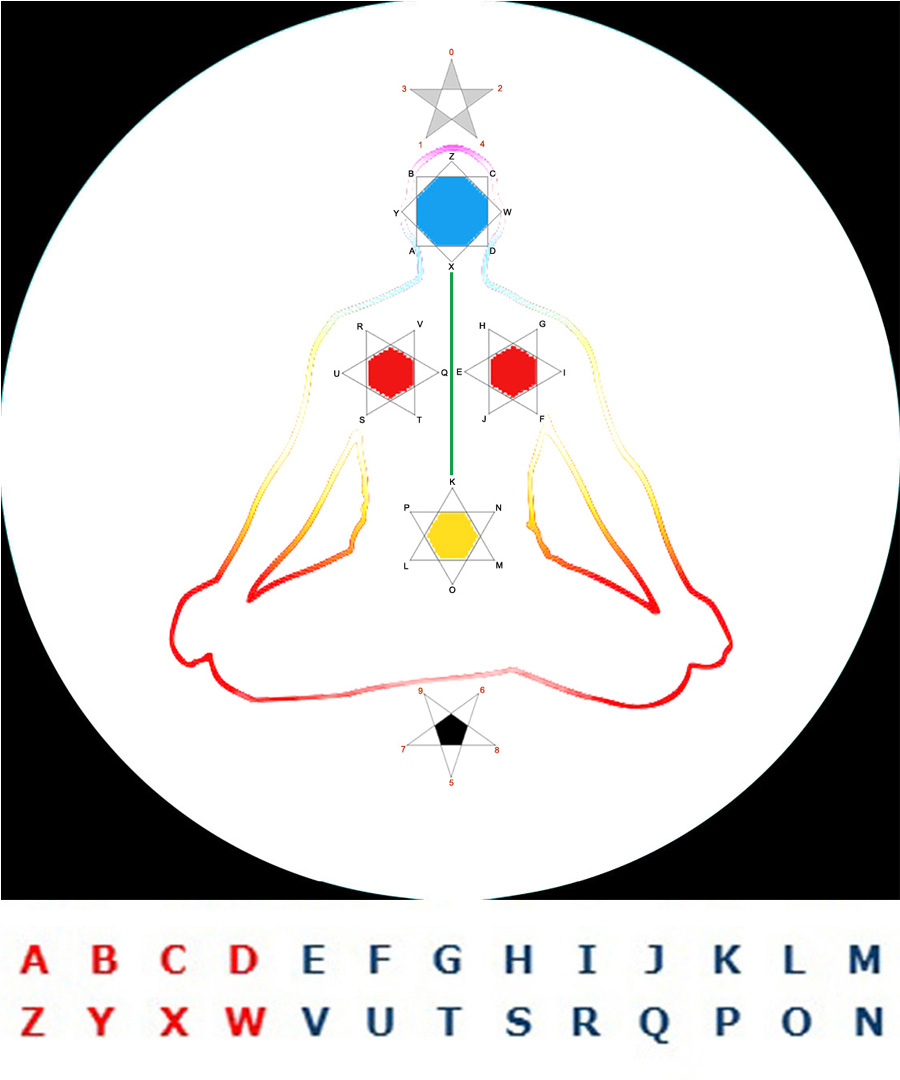
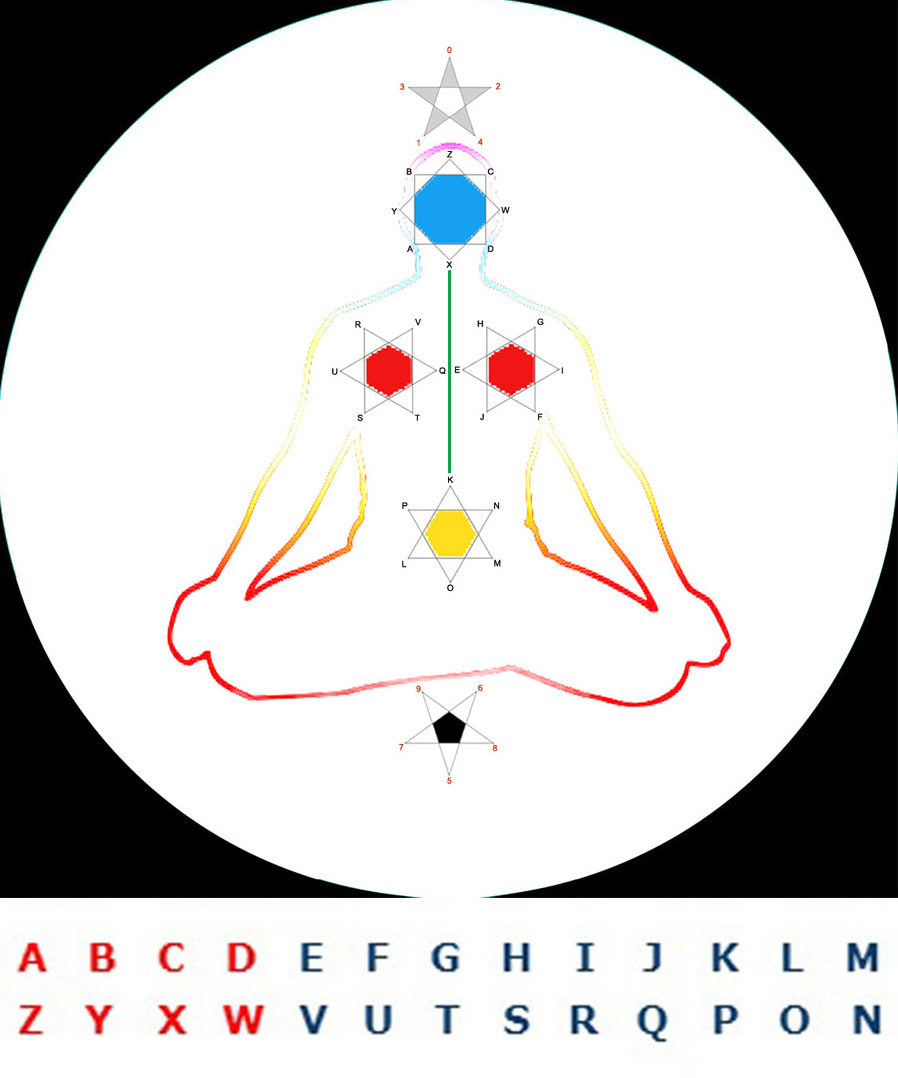
update

diff --git a/lib/data/museum/communication.js b/lib/data/museum/communication.js
@@ -20,10 +20,10 @@ export const communication = {
    },
     
    text: {
-    en: "The integration of the inner-soul and the elements",
-    bn: "অন্তরাত্মা ও  উপাদান সমূহের  একীভূতকরণ",
-    hi: "अंतरात्मा और तत्वों का एकीकरण",
-    sa: "आन्तरिक-आत्मनः तत्त्वानां च एकीकरणम्",
+    en: "The integration of the inner-soul and the nature",
+    bn: "অন্তরাত্মা ও প্রকৃতির একীভূতকরণ",
+    hi: "अंतरात्मा और प्रकृति का एकीकरण",
+    sa: "आन्तरिक-आत्मनः प्रकृतिः च एकीकरणम्",
   },
 },
  
@@ -39,7 +39,8 @@ export const communication = {
     text: {
     en: "The communication between the conscious and the unconscious mind gives birth to an inner language — reflected through numbers and alphabets in the Zero Hour of creation; the alphabetical sequence A—Z unfolds like a circle emerging from a single point, where 26 → 2 + 6 = 8 symbolizes the reflection of '0', the sign of an eternal cycle; just as the solar system extends from 0 to 8, embodying infinity, so do the numbers 0-9 represent the silent origin of human thought; dreams bridge the unconscious with the conscious, linking the inner and outer universes through the hidden pulse of awareness;",
     
-    bn: "সচেতন ও অচেতন মনের মধ্যকার যোগাযোগ একটি অভ্যন্তরীণ ভাষার জন্ম দেয় — যা সৃষ্টির শূন্য মুহূর্তে সংখ্যা ও বর্ণমালার মাধ্যমে প্রতিফলিত হয়; A—Z বর্ণানুক্রমটি একটি একক বিন্দু থেকে উদ্ভূত বৃত্তের মতো উন্মোচিত হয়, যেখানে ২৬ → ২ + ৬ = ৮ সংখ্যাটি '০'-এর প্রতিফলনকে প্রতীকায়িত করে, যা এক চিরন্তন চক্রের চিহ্ন; ঠিক যেমন সৌরজগৎ ০ থেকে ৮ পর্যন্ত বিস্তৃত হয়ে অসীমতাকে ধারণ করে, তেমনি ০-৯ সংখ্যাগুলো মানব চিন্তার নীরব উৎসকে প্রতিনিধিত্ব করে; স্বপ্ন অচেতন ও সচেতন মনের মধ্যে সেতুবন্ধন তৈরি করে, সচেতনতার লুকানো স্পন্দনের মাধ্যমে অভ্যন্তরীণ ও বাহ্যিক জগতকে সংযুক্ত করে;",
+    bn: "সচেতন ও অচেতন মনের মধ্যকার যোগাযোগ একটি অভ্যন্তরীণ ভাষার জন্ম দেয় — যা সৃষ্টির শূন্য মুহূর্তে সংখ্যা ও বর্ণমালার মাধ্যমে প্রতিফলিত হয়; A—Z বর্ণানুক্রমটি একটি একক বিন্দু থেকে উদ্ভূত বৃত্তের মতো উন্মোচিত হয়, যেখানে 26 → 2 + 6 = 8 সংখ্যাটি '0'-এর প্রতিফলনকে প্রতীকায়িত করে, যা এক চিরন্তন চক্রের চিহ্ন; ঠিক যেমন সৌরজগৎ 0 থেকে 8 পর্যন্ত বিস্তৃত হয়ে অসীমতাকে ধারণ করে, তেমনি 0-9 সংখ্যাগুলো মানব চিন্তার নীরব উৎসকে প্রতিনিধিত্ব করে; স্বপ্ন অচেতন ও সচেতন মনের মধ্যে সেতুবন্ধন তৈরি করে, সচেতনতার লুকানো স্পন্দনের মাধ্যমে অভ্যন্তরীণ ও বাহ্যিক জগতকে সংযুক্ত করে;",
+
     hi: "चेतन और अचेतन मन के बीच कम्युनिकेशन एक अंदरूनी भाषा को जन्म देता है — जो सृष्टि के ज़ीरो आवर में नंबरों और अल्फाबेट के ज़रिए दिखता है; अल्फाबेटिकल सीक्वेंस A—Z एक सिंगल पॉइंट से निकलते हुए एक सर्कल की तरह खुलता है, जहाँ 26 → 2 + 6 = 8 '0' के रिफ्लेक्शन को दिखाता है, जो एक हमेशा रहने वाले साइकिल का साइन है; जैसे सोलर सिस्टम 0 से 8 तक फैला है, जो इनफिनिटी को दिखाता है, वैसे ही नंबर 0-9 इंसानी सोच की साइलेंट शुरुआत को दिखाते हैं; सपने अचेतन को चेतन से जोड़ते हैं, अवेयरनेस की छिपी हुई पल्स के ज़रिए अंदरूनी और बाहरी यूनिवर्स को जोड़ते हैं;",
 
     sa: " चेतन-अचेतन-मनसयोः मध्ये संचारः एकां आन्तरिकभाषां जनयति — सृष्टेः शून्यघण्टायां संख्याभिः वर्णमालाभिः च प्रतिबिम्बितम् वर्णमालाक्रमः A—Z एकस्मात् बिन्दुतः निर्गच्छन् वृत्तवत् प्रकटितः भवति, यत्र 26 → 2 + 6 = 8 शाश्वतचक्रस्य चिह्नस्य '0' इत्यस्य प्रतिबिम्बस्य प्रतीकं भवति यथा सौरमण्डलं ० तः ८ पर्यन्तं विस्तृतं भवति, अनन्ततां मूर्तरूपं ददाति, तथैव ०-९ सङ्ख्याः मानवचिन्तनस्य मौनमूलस्य प्रतिनिधित्वं कुर्वन्ति; स्वप्नाः अचेतनं चेतनेन सह सेतुम् अकुर्वन्, जागरूकतायाः गुप्तनाडीद्वारा आन्तरिकबाह्यब्रह्माण्डयोः संयोजनं कुर्वन्ति;",
@@ -74,33 +75,29 @@ export const communication = {
     text: {
     en: "Thus, the sequence A—Z becomes a reflection of Life and Nature, where A—M and N—Z embody the cyclic rhythm of millennia; ABCD = WXYZ forms a symbolic circle — AD (Anno Domini) and BC (Before Christ), the two ends of time's continuum; WZ, meaning Word Zero, represents the figures from zero to nine — the ''Zero Hour'' or the cosmic womb of creation; from this alphabetic consciousness, XY chromosomes emerge, completing the cycle of self-realization — the union of creation, consciousness, and life itself;",
     
-    bn: "এইভাবে, A—Z ক্রমটি জীবন এবং প্রকৃতির প্রতিফলন হয়ে ওঠে, যেখানে A—M এবং N—Z সহস্রাব্দের চক্রাকার ছন্দকে মূর্ত করে; ABCD = WXYZ একটি প্রতীকী বৃত্ত গঠন করে — AD (Anno Domini) এবং BC (Before Christ), যা কালধারার দুটি প্রান্ত; WZ, যার অর্থ ‘শব্দ শূন্য’, শূন্য থেকে নয় পর্যন্ত সংখ্যাগুলোকে প্রতিনিধিত্ব করে — ‘শূন্য প্রহর’ বা সৃষ্টির মহাজাগতিক গর্ভ; এই বর্ণভিত্তিক চেতনা থেকে XY ক্রোমোজোমের উদ্ভব ঘটে, যা আত্ম-উপলব্ধির চক্রকে সম্পূর্ণ করে — সৃষ্টি, চেতনা এবং স্বয়ং জীবনের মিলন;",
+    bn: "এইভাবে, A—Z ক্রমটি জীবন এবং প্রকৃতির প্রতিফলন হয়ে ওঠে, যেখানে A—M এবং N—Z সহস্রাব্দের চক্রাকার ছন্দকে মূর্ত করে; ABCD = WXYZ একটি প্রতীকী বৃত্ত গঠন করে — AD (Anno Domini) এবং BC (Before Christ), যা কালধারার দুটি প্রান্ত; WZ (Zero Hour) যার অর্থ ‘শব্দ শূন্য’, শূন্য থেকে নয় পর্যন্ত সংখ্যাগুলোকে প্রতিনিধিত্ব করে — ‘শূন্য প্রহর’ বা সৃষ্টির মহাজাগতিক গর্ভ; এই বর্ণভিত্তিক চেতনা থেকে XY (Embryo) ক্রোমোজোমের উদ্ভব ঘটে, যা আত্ম-উপলব্ধির চক্রকে সম্পূর্ণ করে — সৃষ্টি, চেতনা এবং স্বয়ং জীবনের মিলন;",
 
-    hi: "इस तरह, A—Z सीक्वेंस जीवन और प्रकृति का रिफ्लेक्शन बन जाता है, जहाँ A—M और N—Z हज़ारों सालों की साइक्लिक रिदम को दिखाते हैं; ABCD = WXYZ एक सिंबॉलिक सर्कल बनाता है — AD (एनो डोमिनी) और BC (बिफोर क्राइस्ट), समय के कंटिन्यूटी के दो सिरे; WZ, जिसका मतलब है वर्ड ज़ीरो, ज़ीरो से नौ तक के नंबरों को दिखाता है — 'ज़ीरो आवर' या दुनिया का ब्रह्मांडीय गर्भ; इस अल्फाबेटिकल चेतना से, XY क्रोमोसोम निकलते हैं, जो आत्म-साक्षात्कार के चक्र को पूरा करते हैं — दुनिया, चेतना और खुद जीवन का मिलन;",
+    hi: "इस तरह, A—Z सीक्वेंस जीवन और प्रकृति का रिफ्लेक्शन बन जाता है, जहाँ A—M और N—Z हज़ारों सालों की साइक्लिक रिदम को दिखाते हैं; ABCD = WXYZ एक सिंबॉलिक सर्कल बनाता है — AD (एनो डोमिनी) और BC (बिफोर क्राइस्ट), समय के कंटिन्यूटी के दो सिरे; WZ (Zero Hour) जिसका मतलब है वर्ड ज़ीरो, ज़ीरो से नौ तक के नंबरों को दिखाता है — 'ज़ीरो आवर' या दुनिया का ब्रह्मांडीय गर्भ; इस अल्फाबेटिकल चेतना से, XY (Embryo) क्रोमोसोम निकलते हैं, जो आत्म-साक्षात्कार के चक्र को पूरा करते हैं — दुनिया, चेतना और खुद जीवन का मिलन;",
 
-    sa: "एवं च A—Z इति क्रमः जीवनस्य प्रकृतेः च प्रतिबिम्बः भवति, यत्र A—M तथा N—Z सहस्राब्दानां चक्रीयतालस्य मूर्तरूपं भवति; ABCD = WXYZ एकं प्रतीकात्मकं वृत्तं निर्माति — AD (Anno Domini) तथा BC (Before Christ), कालस्य निरन्तरतायां द्वौ अन्तौ; WZ, अर्थः शब्दः शून्यः, शून्यतः नवपर्यन्तं आकृतयः प्रतिनिधियति — 'शून्यघण्टा' अथवा सृष्टेः ब्रह्माण्डीयगर्भः; अस्मात् वर्णमालाचैतन्यात् XY गुणसूत्राः उद्भवन्ति, आत्मसाक्षात्कारस्य चक्रं सम्पन्नं कुर्वन्ति — सृष्टेः, चेतनायाः, जीवनस्य च संयोगः",
+    sa: "एवं च A—Z इति क्रमः जीवनस्य प्रकृतेः च प्रतिबिम्बः भवति, यत्र A—M तथा N—Z सहस्राब्दानां चक्रीयतालस्य मूर्तरूपं भवति; ABCD = WXYZ एकं प्रतीकात्मकं वृत्तं निर्माति — AD (Anno Domini) तथा BC (Before Christ), कालस्य निरन्तरतायां द्वौ अन्तौ; WZ (Zero Hour) अर्थः शब्दः शून्यः, शून्यतः नवपर्यन्तं आकृतयः प्रतिनिधियति — 'शून्यघण्टा' अथवा सृष्टेः ब्रह्माण्डीयगर्भः; अस्मात् वर्णमालाचैतन्यात् XY (Embryo) गुणसूत्राः उद्भवन्ति, आत्मसाक्षात्कारस्य चक्रं सम्पन्नं कुर्वन्ति — सृष्टेः, चेतनायाः, जीवनस्य च संयोगः",
   }, 
 },
 
-  {
-    type: "images",
-    items: [
     {
+    type: "images",
+    grid: "4",
+    lightbox: true,
+    items: [
+      {
       image: "/images/a-z-1.jpg",
        className: "medium-diagram",
+       title: "ABCD=WXYZ",
      },
     ],
   }, 
 
- {
-    type: "headline",
-    title: {
-    en: "0-9, The Zero-Hour Clock",
-    bn: "০-৯, শূন্য-ঘণ্টার ঘড়ি",
-    hi: "০-৯, শূন্য-ঘণ্টার ঘড়ি",
-    sa: "०-९, शून्यघण्टाघटिका",
-  }, 
- },
+   
+ 
  {
     type: "section",
     text: {
@@ -124,9 +121,9 @@ export const communication = {
 
 title: {
   en: "TIME",
-  bn: "কাল",
-  hi: "काल",
-  sa: "कालः",
+  bn: "TIME: কাল",
+  hi: "TIME: काल",
+  sa: "TIME: कालः",
 },
 
 descShort: {
@@ -140,14 +137,28 @@ descShort: {
 },
  },
 
+ 
+  
+    {
+    image: "/images/a-2.jpg",
+
+title: {
+  en: "SPACE",
+  bn: "SPACE: স্থান",
+  hi: "SPACE: स्थान",
+  sa: "SPACE: स्थानं",
+ 
+},
+},
+
     {
     image: "/images/s-10.jpg",
 
 title: {
-  en: "ENERGY",
-  bn: "শক্তি",
-  hi: "ऊर्जा",
-  sa: "ऊर्जा",
+  en: "wheel of time",
+  bn: "wheel of time: কালচক্র",
+  hi: "wheel of time: समय चक्र",
+  sa: "wheel of time: कालचक्रम्",
 },
 
 descShort: {
@@ -162,7 +173,33 @@ descShort: {
  },
  ],
  },
-      
+     
+    {
+    type: "images",
+    grid: "4",
+    lightbox: true,
+    items: [
+   
+     {
+      type: "clock",
+      image: "/images/cosmos.jpg",
+      title: "Energy, Space & Time",
+      },
+  
+    ],
+  },
+
+ 
+ {
+    type: "headline",
+    title: {
+    en: "0-9, The Zero-Hour Clock",
+    bn: "০-৯, শূন্য-ঘণ্টার ঘড়ি",
+    hi: "0-9, शून्य-घंटे की घड़ी",
+    sa: "०-९, शून्यघण्टाघटिका",
+  }, 
+ },
+
  {
     type: "section",
     title: {

diff --git a/lib/data/artCultureData.js b/lib/data/artCultureData.js
@@ -683,7 +683,7 @@ export const artCultureData = {
     lightbox: true,
     items: [
     {
-      image: "/images/a-z.jpg",
+      image: "/images/a-z-1.jpg",
       title: "ABCD=WXYZ",
       width: 3,
      },
@@ -1349,6 +1349,11 @@ export const artCultureData = {
     grid: "5",
     lightbox: true,
     items: [
+          {
+      image: "/images/a-z-0.jpg",
+      title: "ABCD = WXYZ",
+      width: 1,
+    },
     {
       image: "/images/a-1.jpg",
       title: "ABCD = WXYZ",
@@ -1356,14 +1361,10 @@ export const artCultureData = {
       },
     {
       image: "/images/s-10.jpg",
-      title: "ABCD = WXYZ",
+      title: "AD & BC = WZ & XY",
       width: 1,
     },
-    {
-      image: "/images/a-z-0.jpg",
-      title: "ABCD = WXYZ",
-      width: 1,
-    },
+
    ],
  },
  
